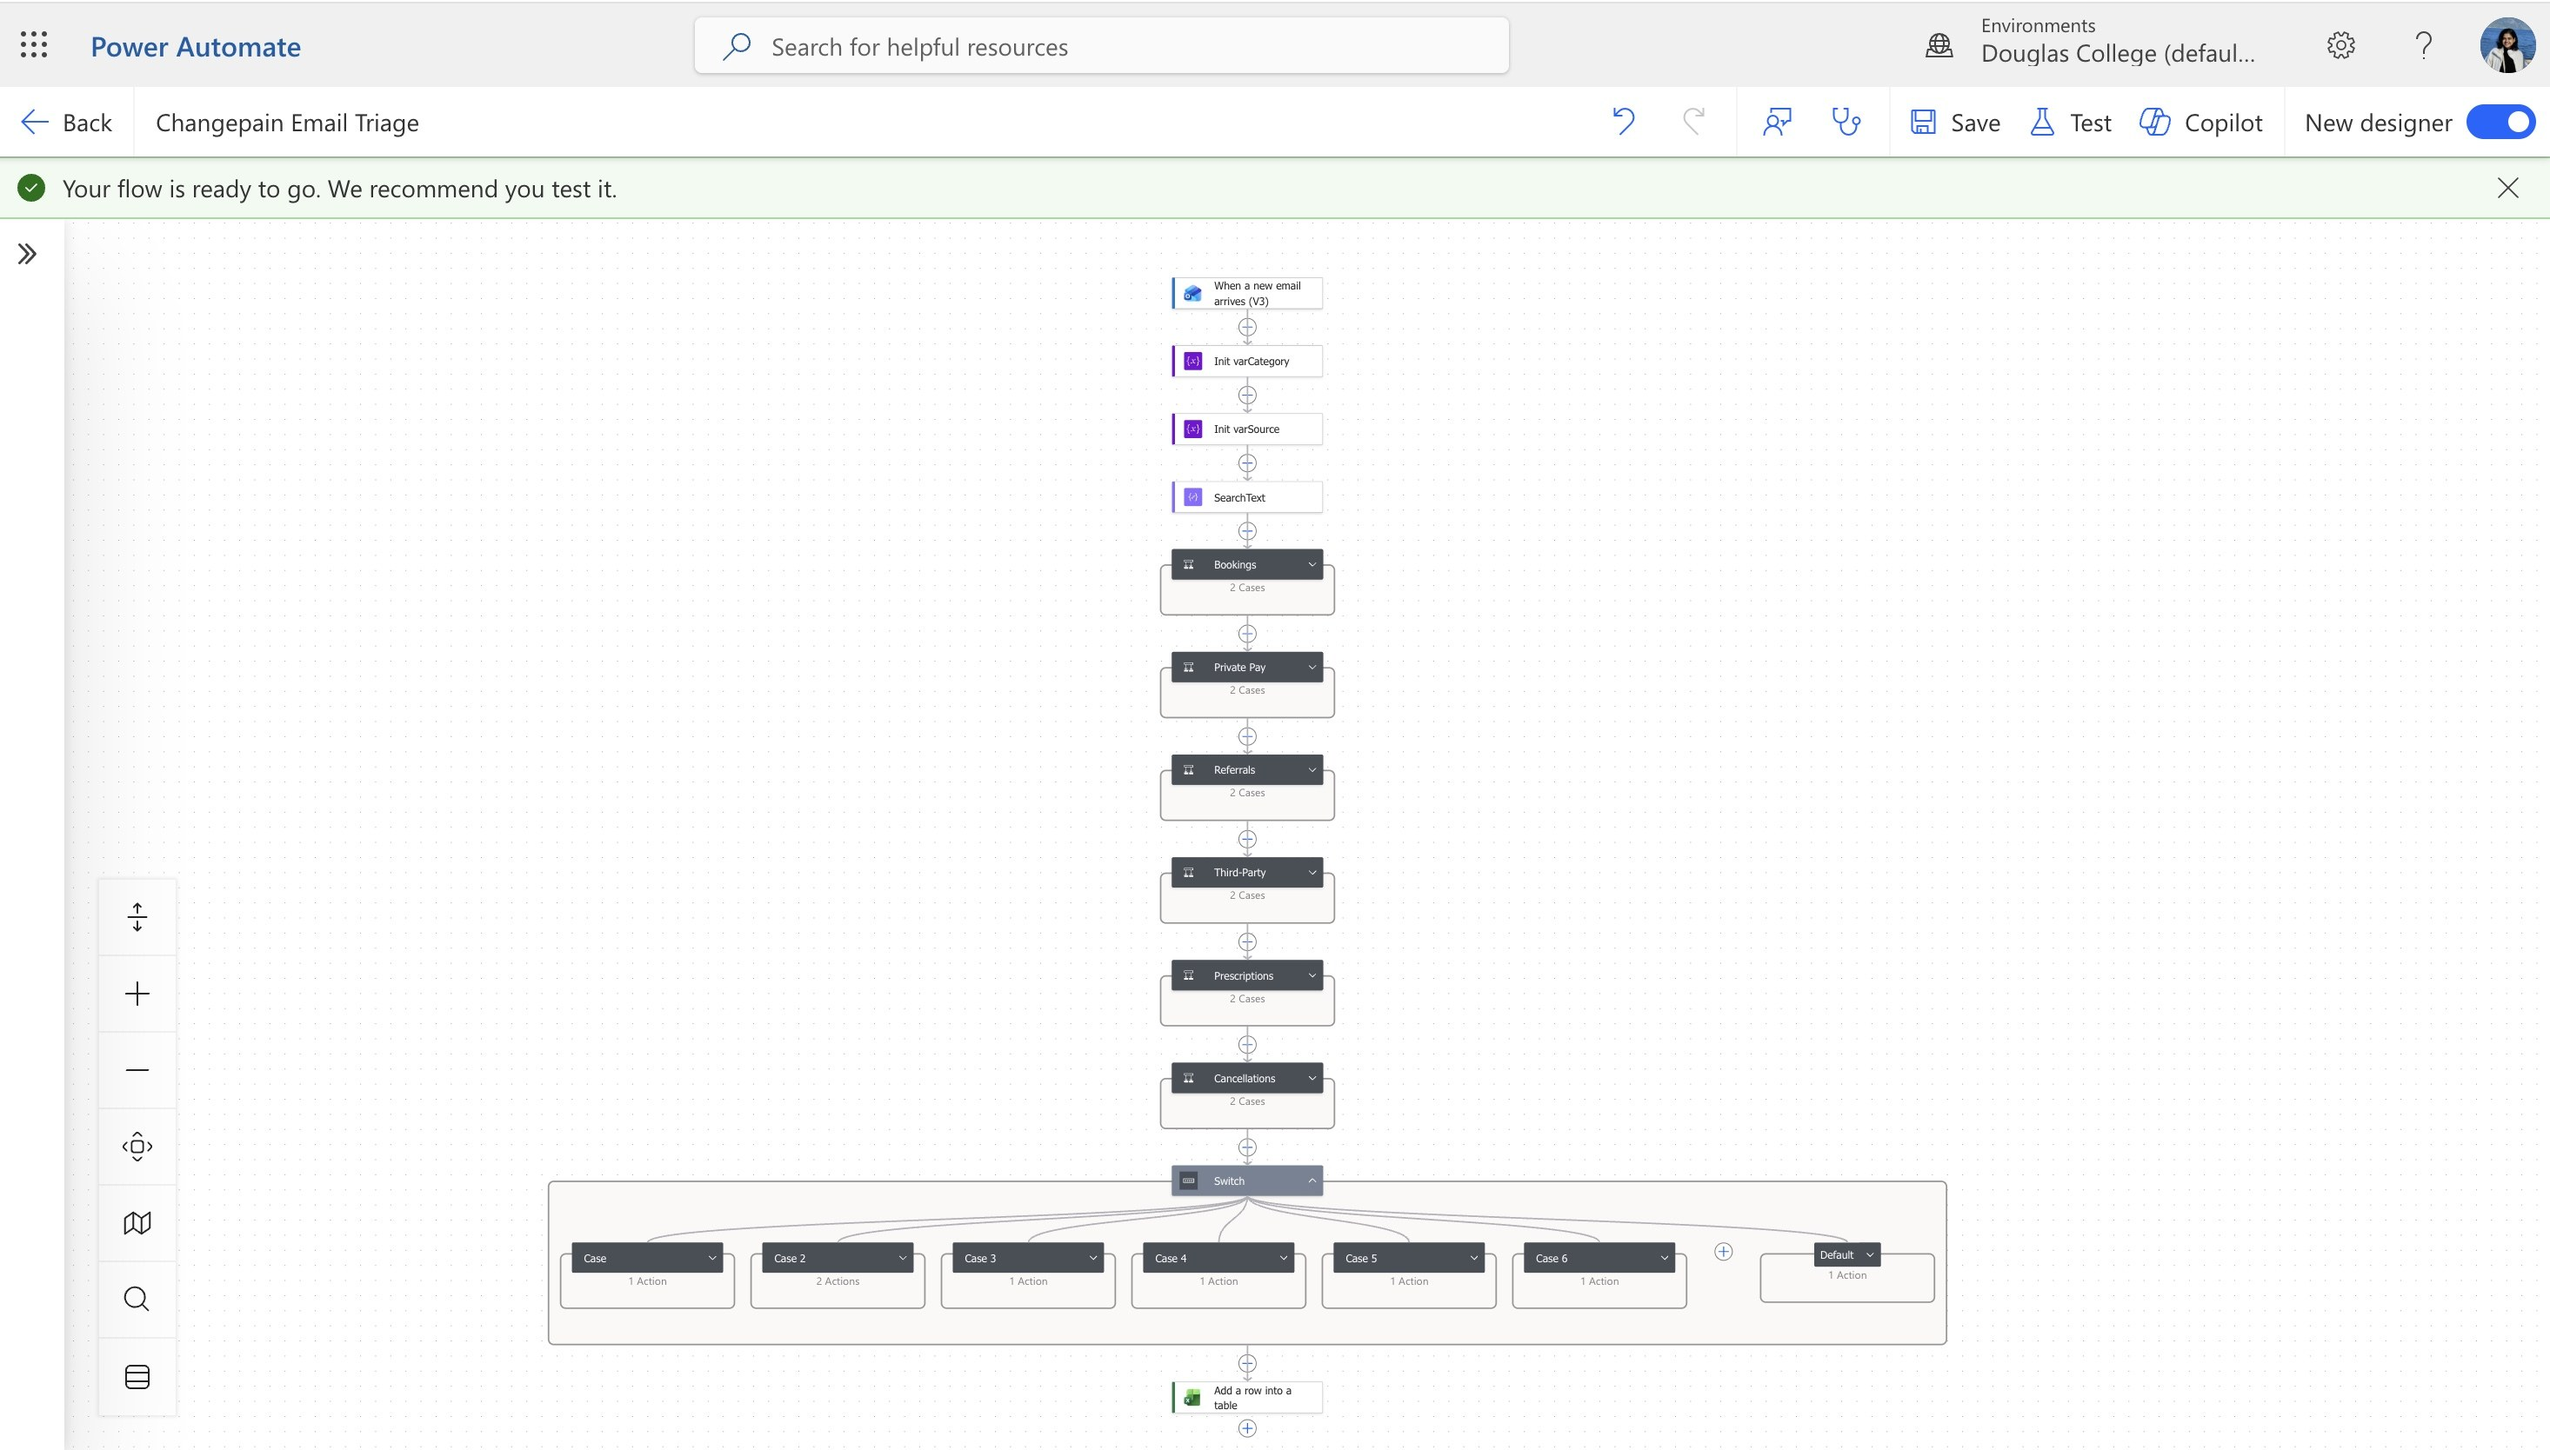
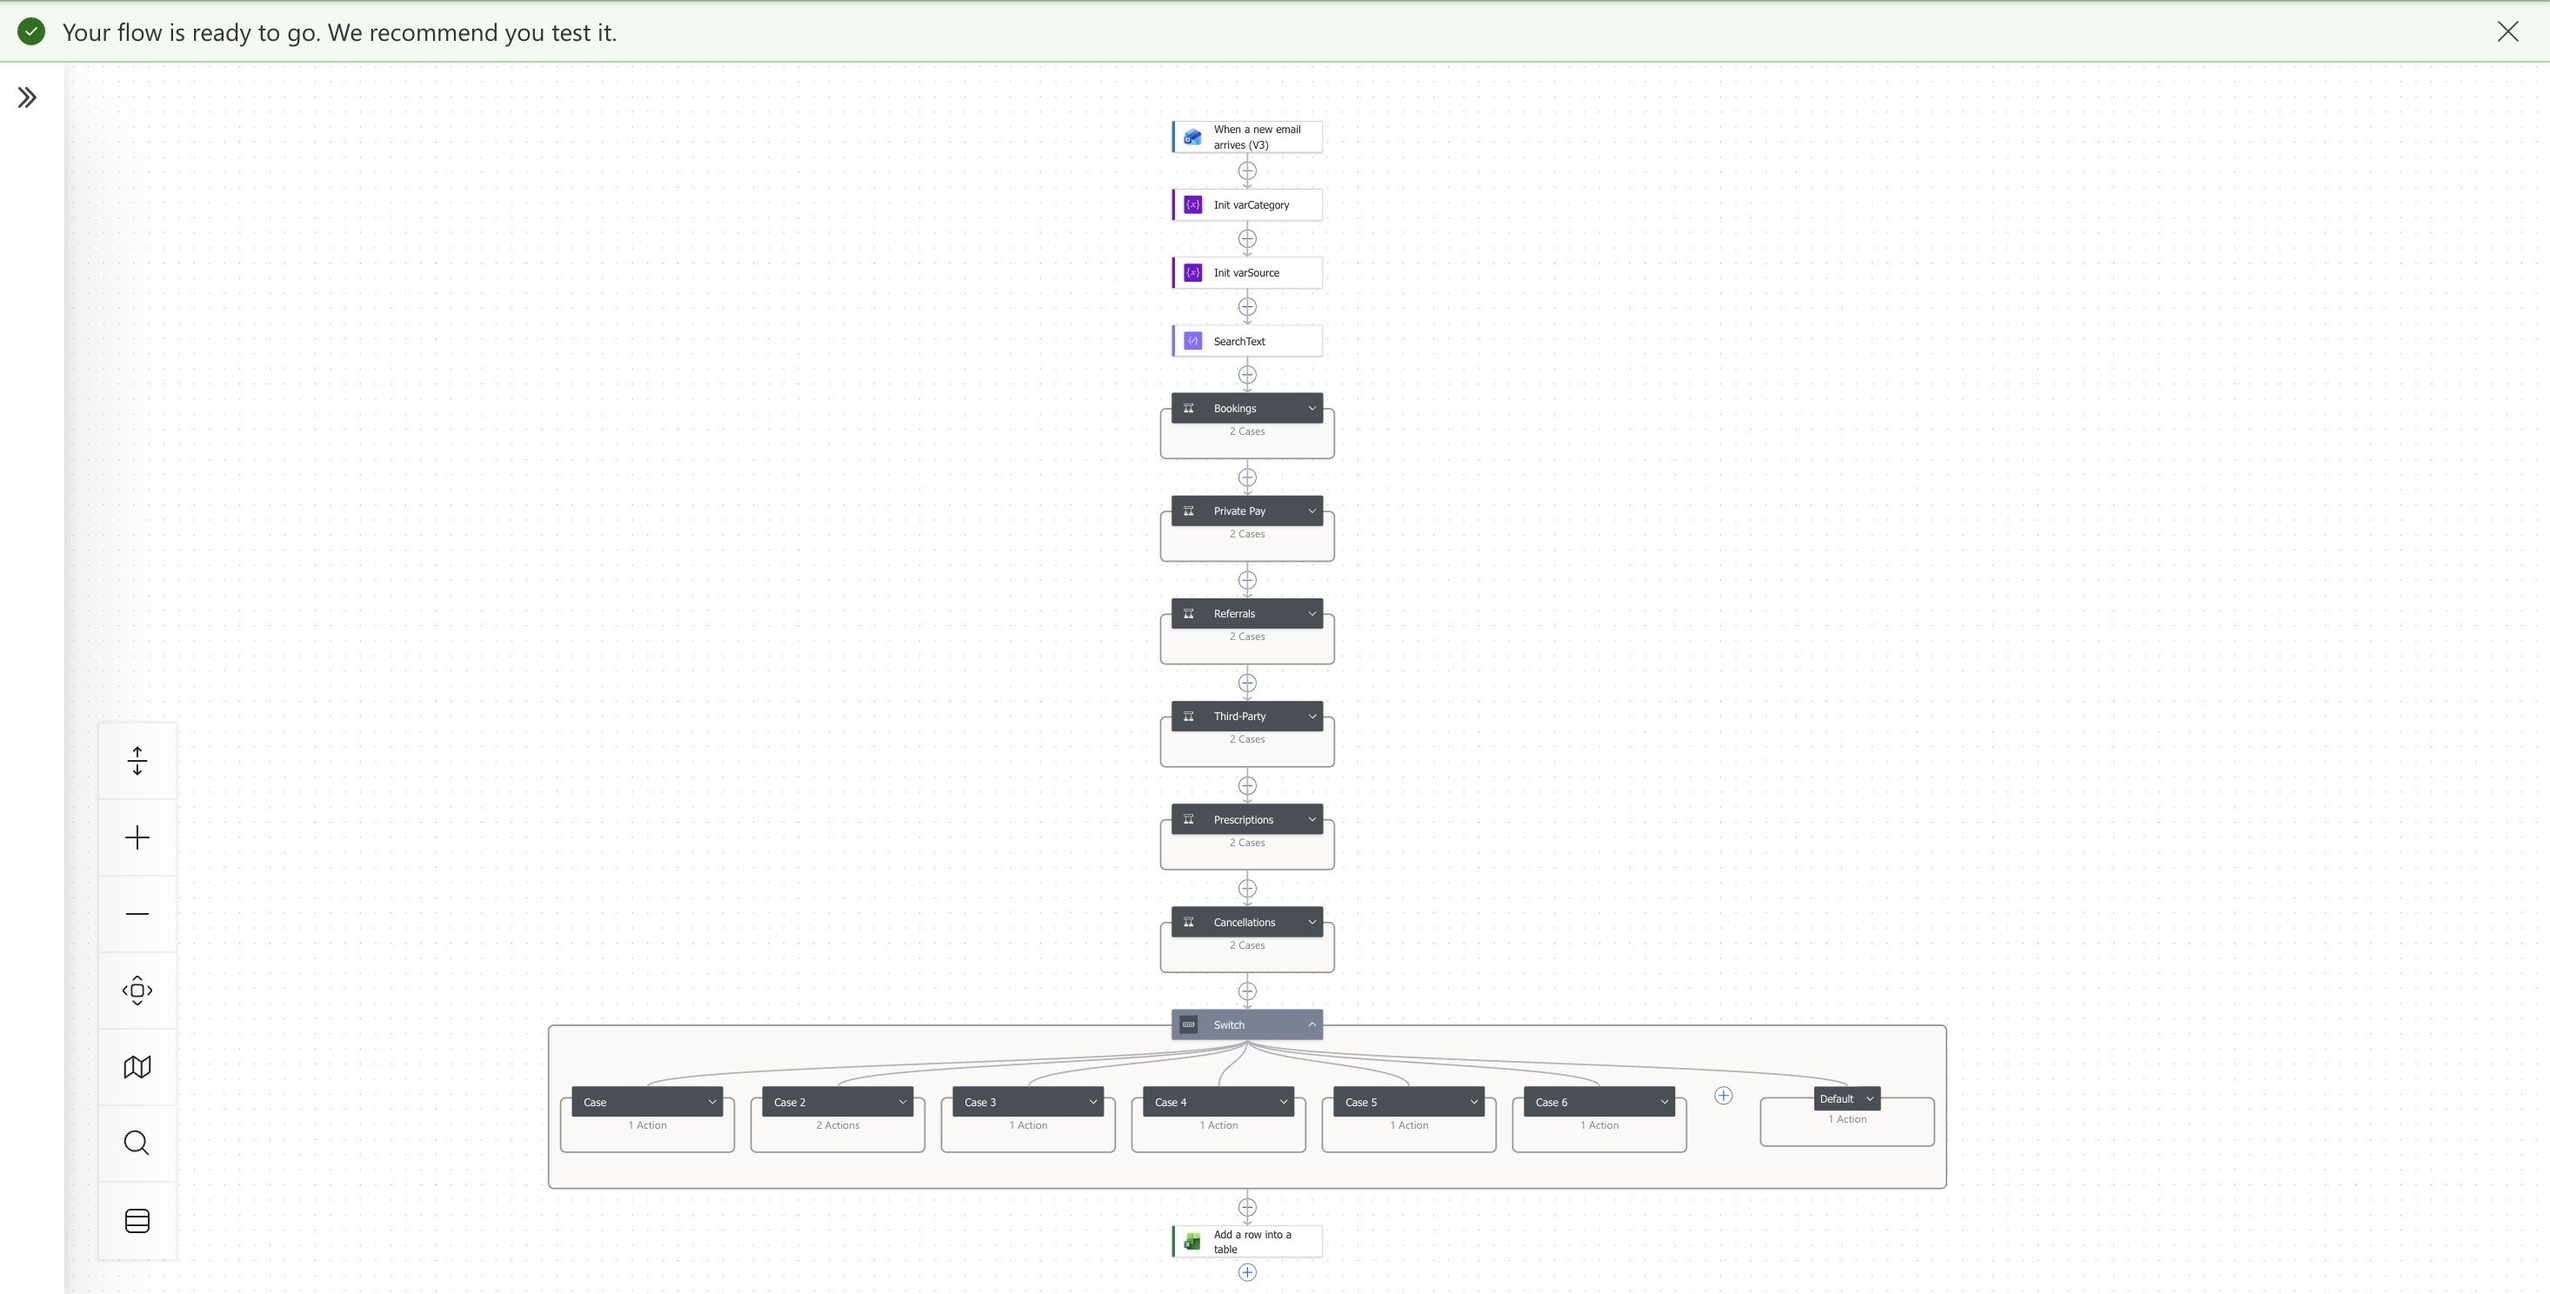
Update portfolio content

Changed region(s): [[0.0, 0.0, 1.0, 0.9892], [0.2793, 0.0309, 0.5897, 0.0618], [0.031, 0.9274, 0.0621, 0.9583]]

diff --git a/src/app/work/clinicflow/page.tsx b/src/app/work/clinicflow/page.tsx
@@ -8,7 +8,7 @@ import { Callout, Flow, Note, Pull } from "@/components/ui";
 export const metadata: Metadata = {
   title: "ClinicFlow | Healthcare Workflow Automation | Rashi Goel",
   description:
-    "A Power Automate inbox triage prototype with seven routing categories, Excel logging, Teams cancellation alerts, and testing across 21 realistic emails.",
+    "An independent Power Automate inbox-triage prototype informed by real multidisciplinary-clinic operations: seven routing categories, Excel logging, Teams cancellation alerts, and testing across 21 realistic emails.",
   openGraph: {
     title: "ClinicFlow — What if incoming emails could find the right place on their own?",
     description:
@@ -102,9 +102,8 @@ export default function ClinicFlowPage() {
         </p>
         <div style={{ marginTop: "26px" }}>
           <Note>
-            Inspired by CHANGEpain&rsquo;s co-op posting. Not affiliated with or commissioned by
-            CHANGEpain. Built and tested using fictional emails in my own Microsoft 365
-            environment.
+            Independent prototype informed by my experience working in a busy multidisciplinary
+            clinic. Built and tested using fictional emails in my own Microsoft 365 environment.
           </Note>
         </div>
       </CaseHero>
@@ -112,7 +111,7 @@ export default function ClinicFlowPage() {
       {/* ── 01 The challenge — narrative only ── */}
       <CaseSection
         num="01 — The challenge"
-        title="I understood where those hours could disappear."
+        title="I understood how much attention a shared inbox can require."
         tone="white"
       >
         <Reveal>
@@ -120,16 +119,18 @@ export default function ClinicFlowPage() {
             <div className="measure">
               <p className="body">
                 I work as an administrative assistant in a multidisciplinary clinic. Between
-                bookings, coverage questions, patient follow-ups and documentation, I know how
-                much attention a shared inbox can require.
+                bookings, coverage questions, patient follow-ups, documentation, and other
+                day-to-day inquiries, I see how quickly a shared inbox can become another workflow
+                that demands constant attention.
               </p>
+              <p className="body">That made me curious about a simple problem:</p>
               <p className="body">
-                When I read that CHANGEpain staff were spending 2&ndash;3 hours each day manually
-                sorting emails, the problem felt immediately familiar.
+                Could routine messages find the right place automatically without forcing staff to
+                give up control over the decisions that still need judgment?
               </p>
-              <p className="body">I had never used Power Automate.</p>
+              <p className="body">I had never used Power Automate before.</p>
               <p className="body" style={{ color: "var(--ink)", fontWeight: 600 }}>
-                But now I had a real reason to learn it.
+                But now I had a real problem to learn it around.
               </p>
             </div>
 
@@ -161,10 +162,18 @@ export default function ClinicFlowPage() {
         tone="white"
       >
         <Reveal>
-          <p className="body measure" style={{ marginBottom: "36px" }}>
-            I reviewed CHANGEpain&rsquo;s public information to understand its services, intake
-            pathways and common types of patient inquiries. That informed seven categories:
-          </p>
+          <div className="measure" style={{ marginBottom: "36px" }}>
+            <p className="body">
+              I designed the categories around common inquiry types found in a busy
+              multidisciplinary clinic, informed by my own experience working in one.
+            </p>
+            <p className="body">
+              The goal was not to model every possible message. It was to create a simple
+              structure that could handle recurring administrative requests while leaving
+              unmatched messages available for staff review.
+            </p>
+            <p className="body">That led to seven categories:</p>
+          </div>
 
           <ul className="cats">
             {categories.map((c) => (

diff --git a/src/lib/shots.ts b/src/lib/shots.ts
@@ -14,8 +14,8 @@ export const shots = {
   clinicflowFullFlow: {
     src: "/images/clinicflow/clinicflow-full-flow.jpg",
     w: 2932,
-    h: 1668,
-    alt: "Power Automate flow named Changepain Email Triage: a when-a-new-email-arrives trigger, two initialised variables and a SearchText step, followed by six category conditions — Bookings, Private Pay, Referrals, Third-Party, Prescriptions and Cancellations — then a Switch with seven cases and an Excel add-a-row step at the end.",
+    h: 1488,
+    alt: "Power Automate inbox-triage flow: a when-a-new-email-arrives trigger, two initialised variables and a SearchText step, followed by six category conditions — Bookings, Private Pay, Referrals, Third-Party, Prescriptions and Cancellations — then a Switch with seven cases and an Excel add-a-row step at the end.",
     caption:
       "Complete Power Automate flow — incoming mail moves through classification logic before routing, logging and cancellation alerts.",
   },
@@ -46,8 +46,8 @@ export const shots = {
   clinicflowExcel: {
     src: "/images/clinicflow/clinicflow-testing-log.jpg",
     w: 2632,
-    h: 1316,
-    alt: "Excel Online workbook named Changepain Triage Log with Timestamp, Sender, Subject, Category and Source columns and twenty-one logged test emails, each assigned a category such as Cancellations, Bookings, Referrals and Waitlist, Prescriptions and Medication, Third-Party Claims, Private Pay and Fees, or General.",
+    h: 1206,
+    alt: "Excel Online triage log with Timestamp, Sender, Subject, Category and Source columns and twenty-one logged test emails, each assigned a category such as Cancellations, Bookings, Referrals and Waitlist, Prescriptions and Medication, Third-Party Claims, Private Pay and Fees, or General.",
     caption:
       "Each test email was logged with its assigned category so expected and actual routing could be compared.",
   },
